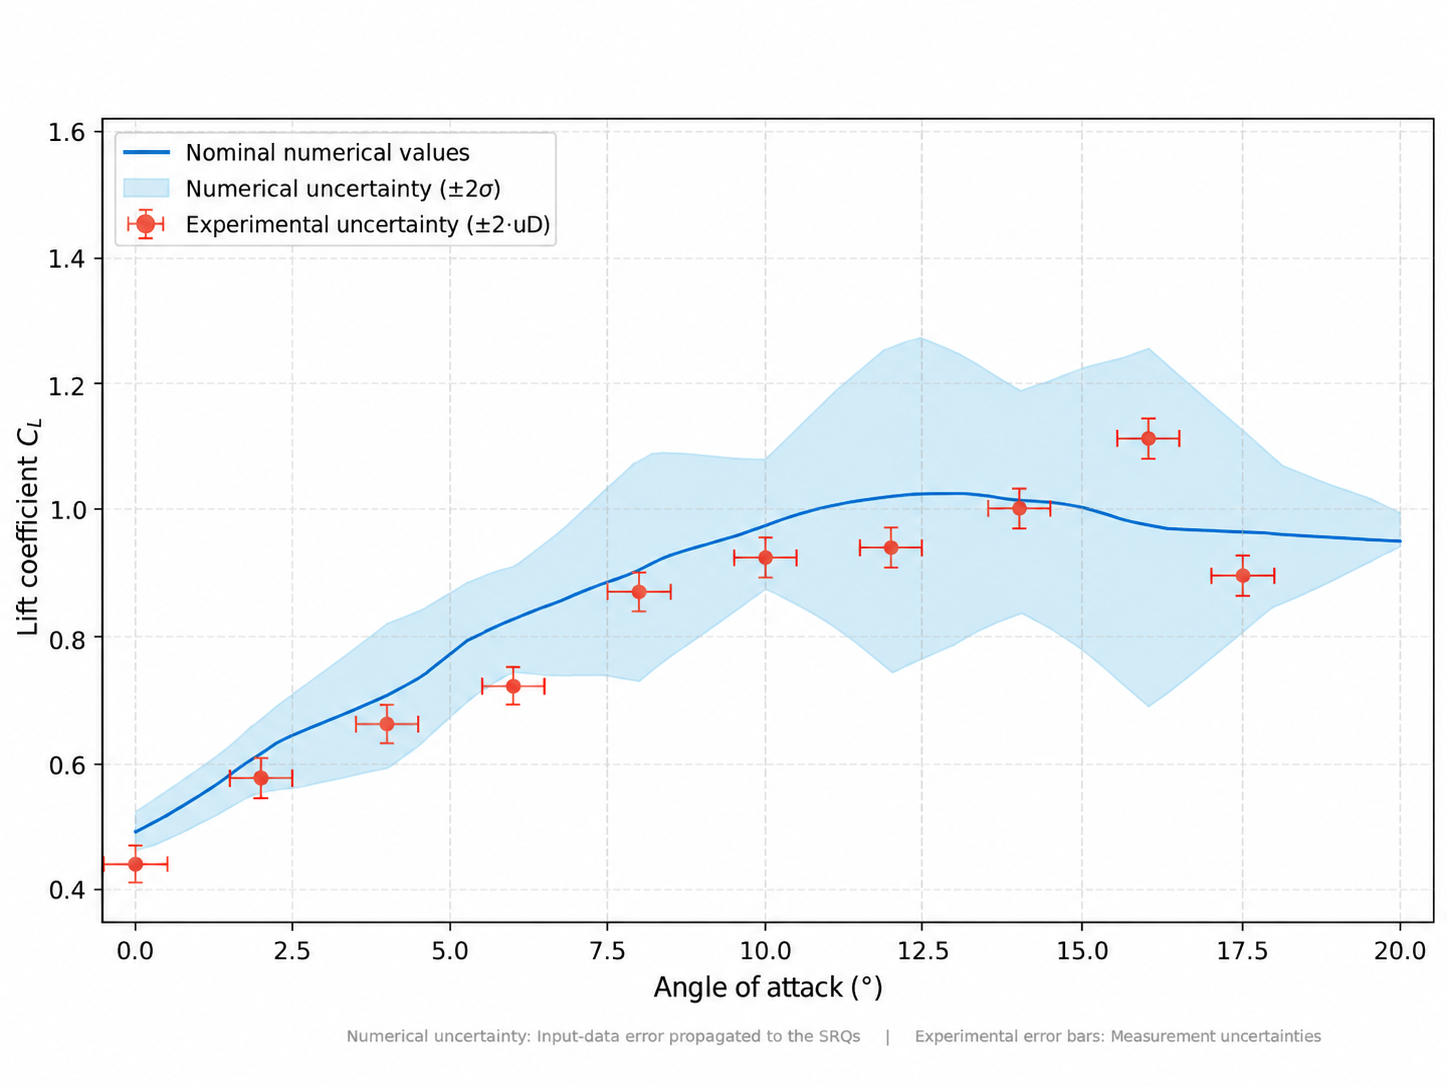
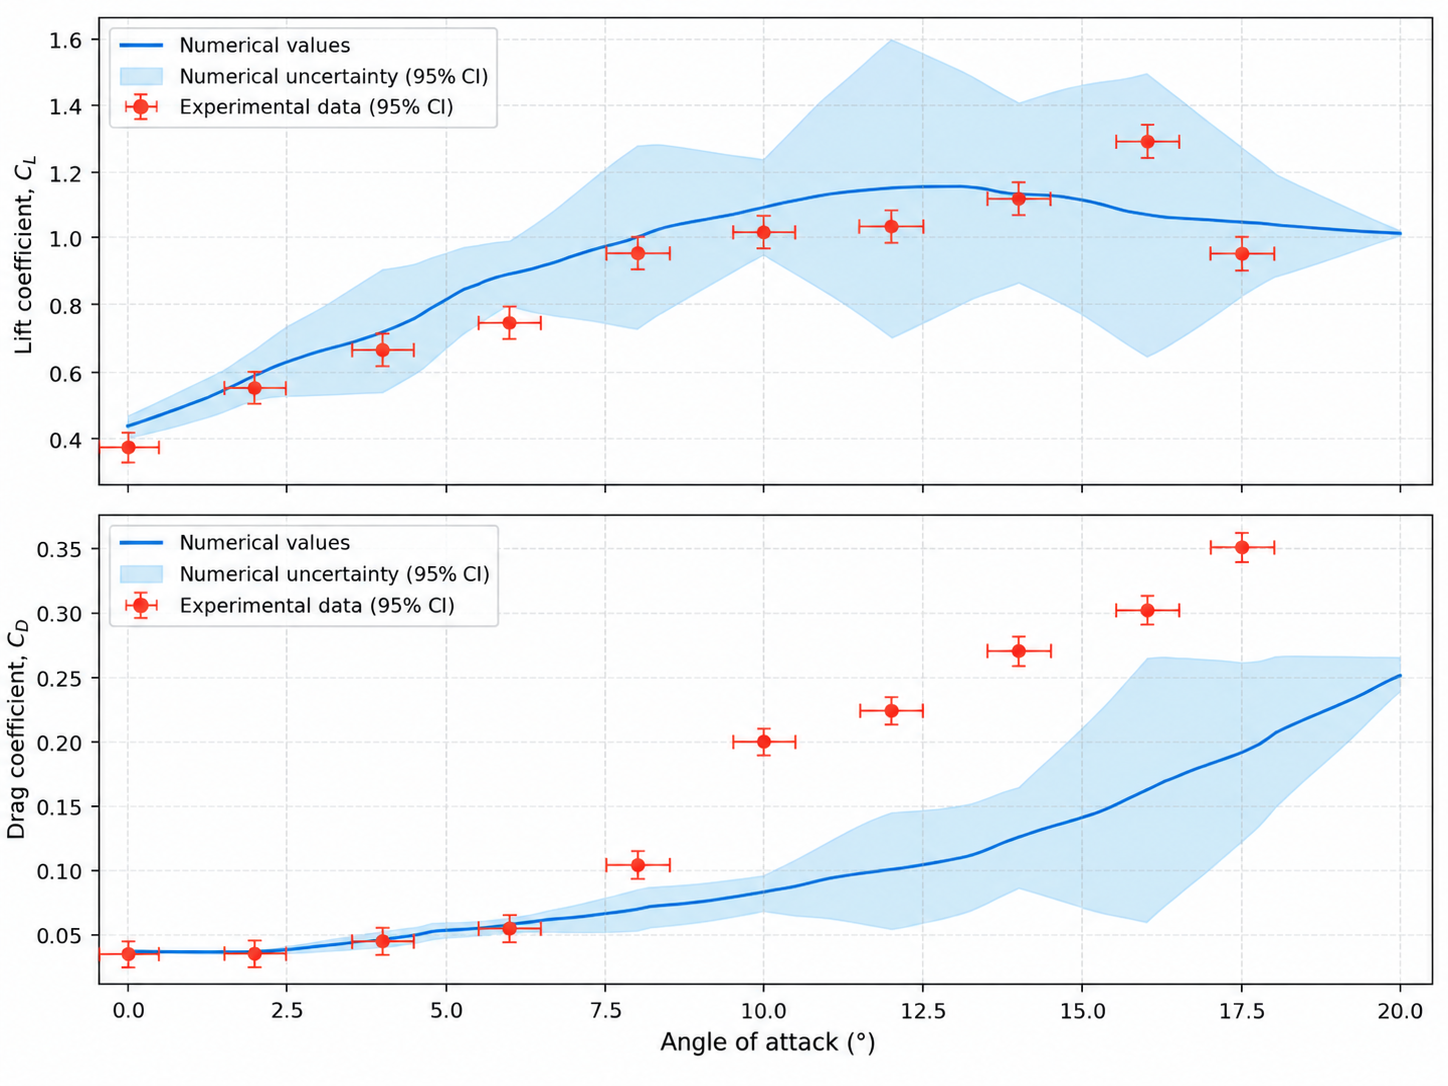
content update

diff --git a/_portfolio/airfoil-validation.md b/_portfolio/airfoil-validation.md
@@ -12,7 +12,7 @@ contribution: >
   I designed the experiment and prototype from end-to-end, and conducted the experiments at the subsonic wind-tunnel of Polytechnique Montreal.
 
 results: >
-  The experimental lift and drag curves showed partial agreement with AI predictions, supporting the feasibility of the validation approach within the project's scope. The measured $C_{L,\max}$ was 1.28 at an angle of attack of $16^\circ$, exceeding the predicted value of 1.18 and occurring $3^\circ$ later. This discrepancy is consistent with the limitations of RANS-trained surrogate models, which tend to smooth out flow separation and stall phenomena. However, confidence in the results was limited by prototype manufacturing imperfections, insufficient structural rigidity, and measurement uncertainties. Resonance-induced vibrations further restricted testing to lower-than-takeoff speeds, with full aerodynamic curves obtained at 18.9 m/s. Consequently, the results provide an initial assessment of predictive accuracy under the tested conditions rather than definitive validation of takeoff performance.
+  The experimental lift and drag curves showed partial agreement with AI predictions, supporting the feasibility of the validation approach within the project's scope. The measured \(C_{L,\max}\) was 1.28 at an angle of attack of \(16^\circ\), exceeding the predicted value of 1.18 and occurring \(3^\circ\) later. This discrepancy is consistent with the limitations of RANS-trained models, which tend to smooth out flow separation and stall phenomena. This discrepancy is consistent with the limitations of RANS-trained surrogate models, which tend to smooth out flow separation and stall phenomena. However, confidence in the results was limited by prototype manufacturing imperfections, insufficient structural rigidity, and measurement uncertainties. Resonance-induced vibrations further restricted testing to lower-than-takeoff speeds, with full aerodynamic curves obtained at 18.9 m/s. Consequently, the results provide an initial assessment of predictive accuracy under the tested conditions rather than definitive validation of takeoff performance.
 
 figures:
   - image: /images/projects/airfoil-validation/prototype.png
